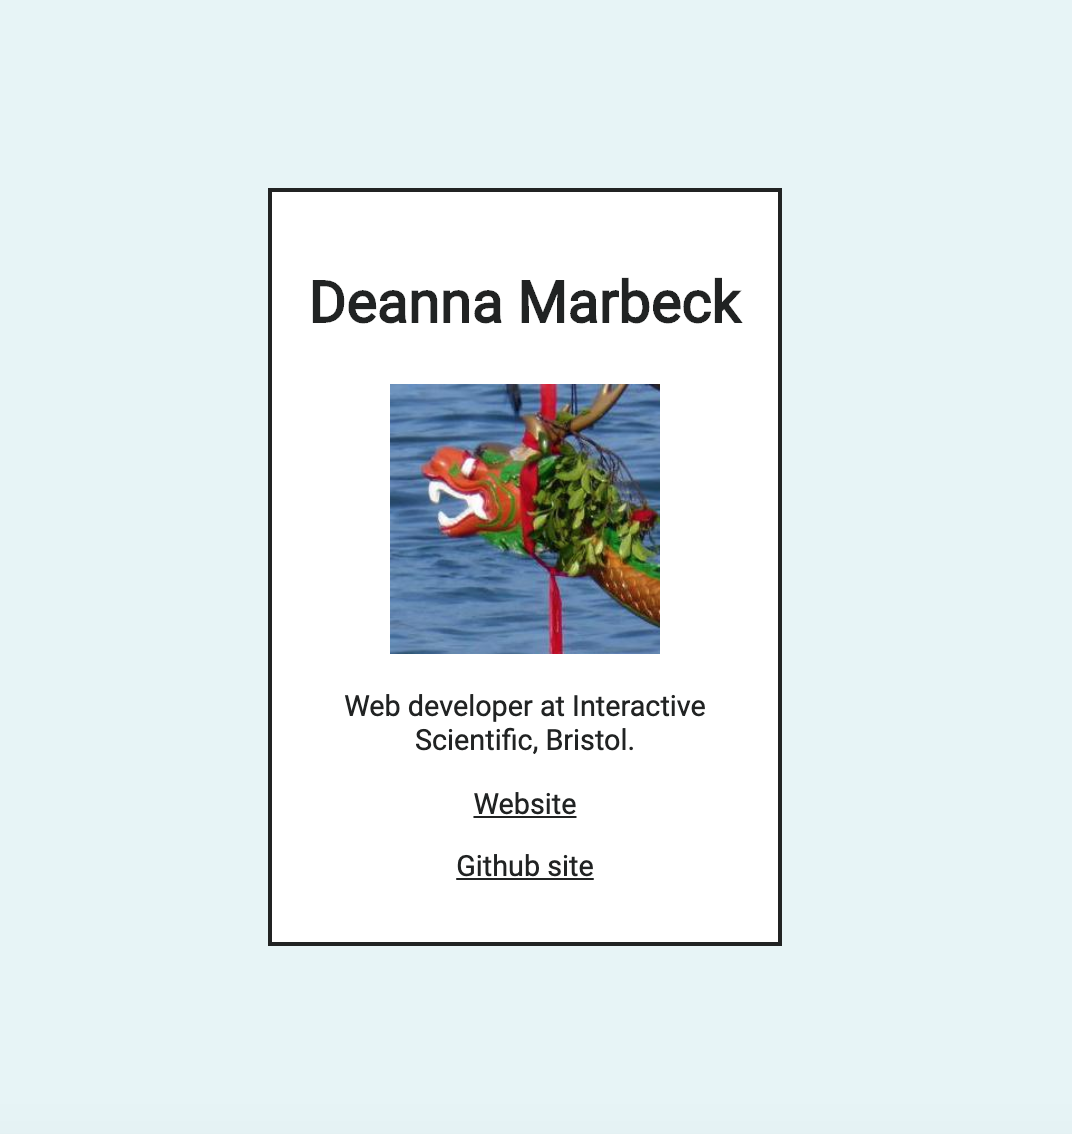
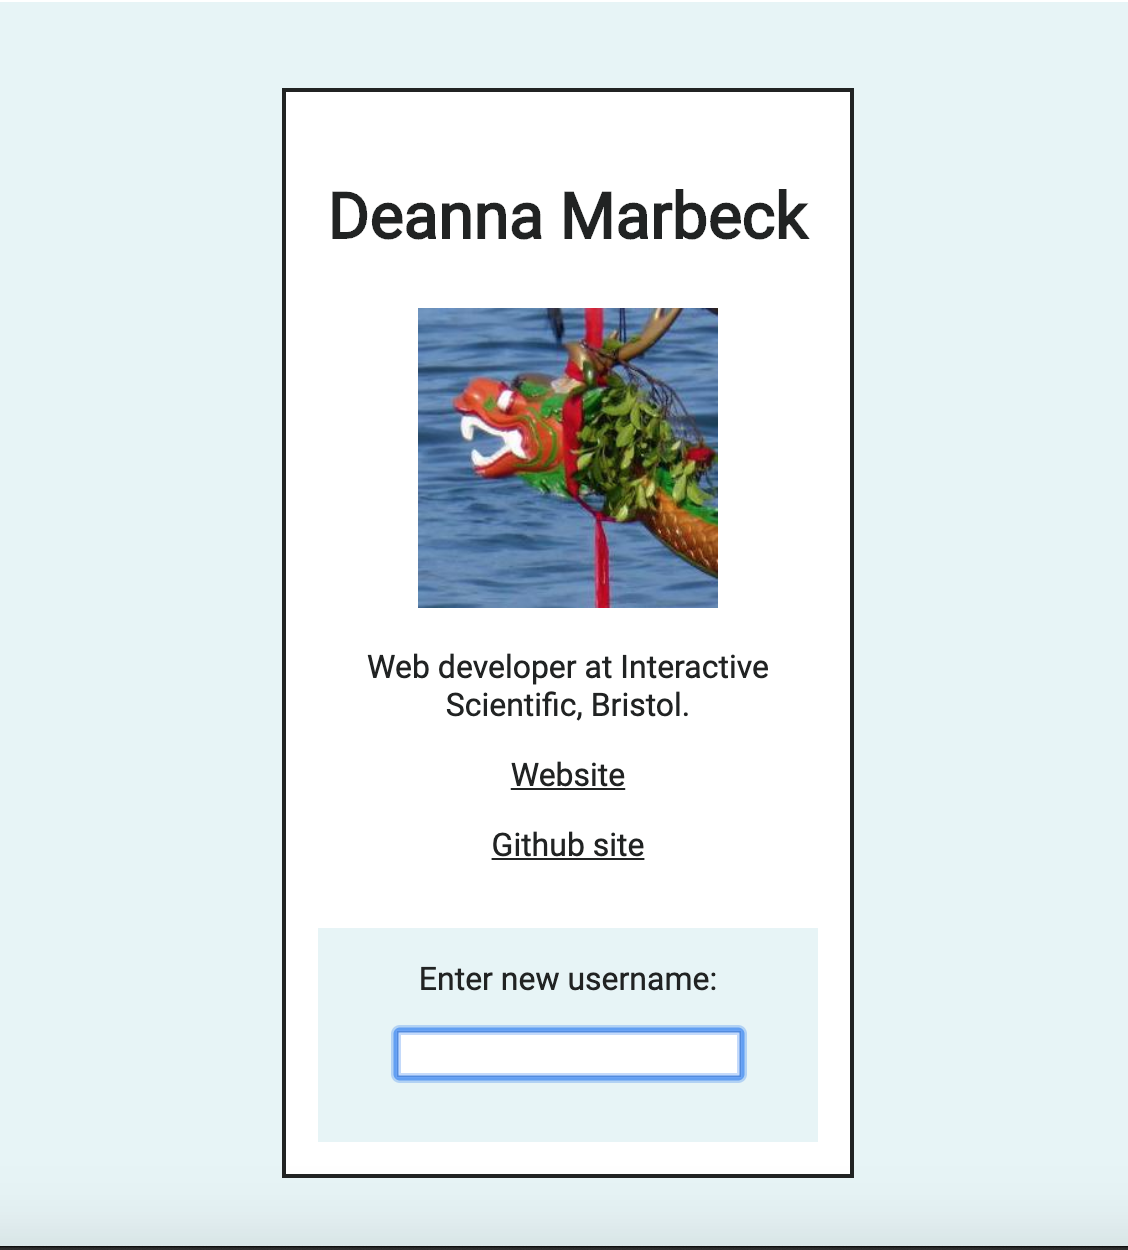
Updated readme, new app screenshot

Changed region(s): [[0.2463, 0.0617, 0.7696, 0.9568], [0.0, 0.9877, 1.0, 1.0]]

diff --git a/README.md b/README.md
@@ -2,7 +2,7 @@
 
 This is a minimalist React proof-of-concept demonstrating fetching data from an API and displaying a card.
 
-It fetches my data from the GitHub API and displays information from my profile.
+It fetches data for a given GitHub username from the GitHub API and displays information from the profile.
 
 It uses the following:
 * React
@@ -16,7 +16,6 @@ It uses the following:
 
 ### Future enhancements:
 * Error handling
-* The ability to input a username to fetch data for
 * Styling upgrade
 * Tests
 
